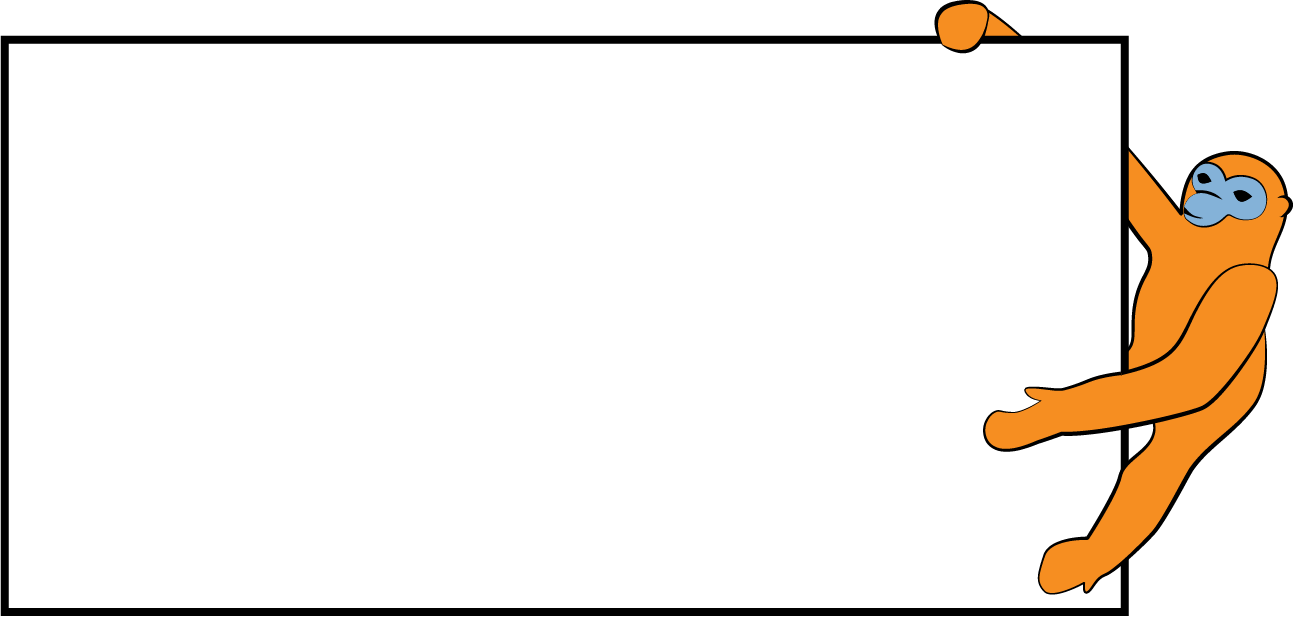
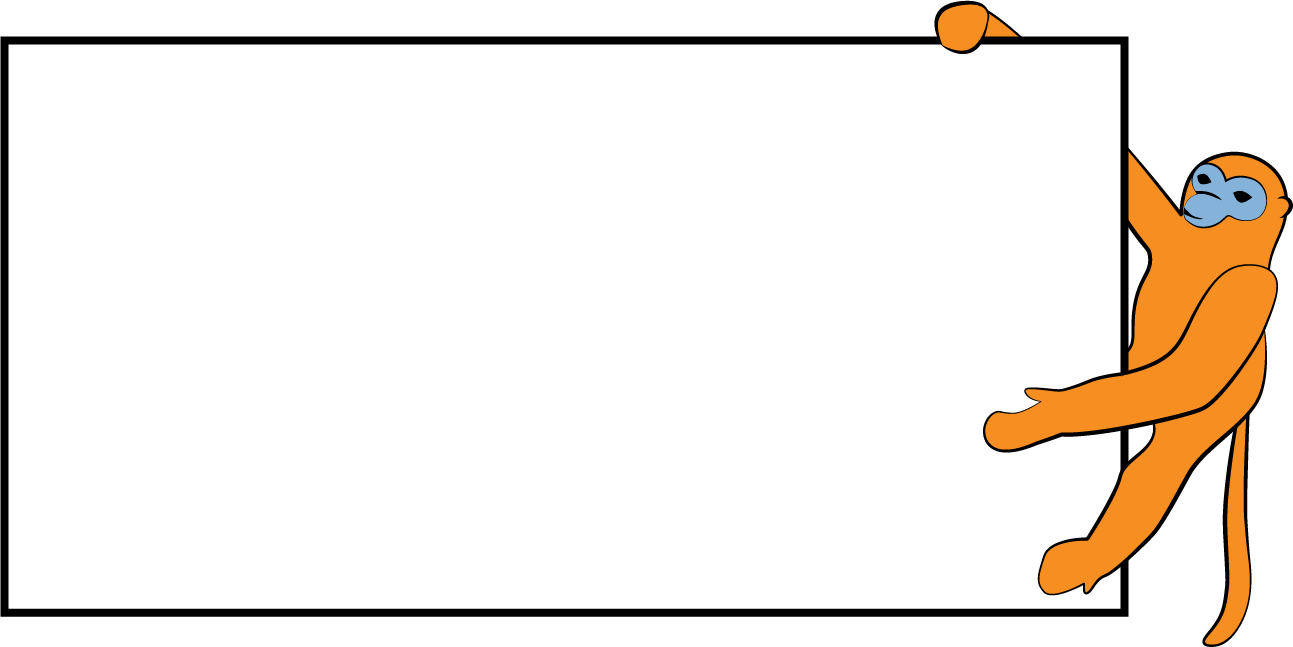
Minor fixes
Small word changes in lessons 3 and 4; replaced images of logo and score monkey

Changed region(s): [[0.0, 0.2156, 1.0, 1.0], [0.0, 0.0308, 0.8662, 0.0924], [0.7425, 0.0, 0.7734, 0.0308]]

diff --git a/pages/Lesson3.php b/pages/Lesson3.php
@@ -21,14 +21,14 @@ include "../head.php";
         <h1>Lesson 3</h1><hr>
         <h2>Pitch Curves</h2>
 		<p>It's important to remember that tone is relative to the speaker's voice. That means that one person's first tone may not be as high as another person's. For example, let's say that Person A's voice is higher than Person B's. Person A might have a 1st tone at 400Hz, but Person B's 1st tone only comes up to 300Hz. Neither is inherently wrong, because the range of their voices are different.</p>
-		<p>The lesson to take from this is not to feel like you "can't go high enough" or "can't go low enough" to say a tone correctly. The highs and lows are relative to your own voice. Even if someone else's tone is higher or lower than yours, that doesn't necessarily make either of you wrong. There are other features that need to be examined.</p>
+		<p>The lesson to take from this is not to feel like you "can't go high enough" or "can't go low enough" to say a tone correctly. The highs and lows are relative to your own voice. Even if someone else's tone is higher or lower than yours, that doesn't necessarily make either of you wrong. The shape of your curve is more important, but even that can have variation. There are other features that need to be examined.</p>
     </section>
     <section id = "lesson-3-ref" class = "hide view-2 lesson">
         <div id = "ref-title"><h1>Lesson 3</h1><hr>
             <h2>Pitch Curves</h2>
 		<p>Listen to the recording for the given word. Look at the native speaker's pitch curve (blue) and prepare to say the word.</p>
-		<p>When you are ready to say the word, press "Record". You will have <strong>2 seconds</strong> to say the word. At the end of those 2 seconds, your pitch curve (red) will be graphed against the native speaker's.</p>
-		<p>Try to get your pitch curve to overlap the native speaker's as closely as possible.</p>
+		<p>When you are ready to say the word, press "Record." You will have <strong>2 seconds</strong> to say the word. At the end of those 2 seconds, your pitch curve (red) will be graphed against the native speaker's.</p>
+		<p>Try to get your pitch curve to match the native speaker's as closely as possible.</p>
         </div>
         <button type = "button" id = "btn-to-lesson">Return to Lesson</button>
         
@@ -36,10 +36,8 @@ include "../head.php";
     <section id = "activity-3-prompt" class = "activity">
         <h1>Activity 3</h1><hr>
         <h2>Tone Mimicking</h2>
-		<p>First, record your baseline by clicking "Record Baseline" and saying "This is my normal speaking voice."</p>
-		<p>Listen to the recording for the given word. Look at the native speaker's pitch curve (blue) and prepare to say the word.</p>
-		<p>When you are ready to say the word, press "Record". You will have <strong>2 seconds</strong> to say the word. At the end of those 2 seconds, your pitch curve (red) will be graphed against the native speaker's.</p>
-		<p>Try to get your pitch curve to overlap the native speaker's as closely as possible.</p>
+		<p>First, you'll listen to a native speaker pronouncing a word and see their pitch curve mapped out in blue.</p>
+		<p>When you are ready, you'll record yourself saying the word and see how your curve, in red, compares to the native speaker's.</p>
         <p>Are you ready to begin this activity?</p>
         <button type = "button" id = "begin-btn">Begin</button>
     
@@ -52,10 +50,10 @@ include "../head.php";
 	<!-- BEGIN Activity Content -->
         <div id ="activity-3-baseline">
             <h3>Record Baseline</h3>
-		<p>The following activity is designed to help you improve your ability to produce tone by mimicking a native speaker. You'll be given an audio recording of a native speaker saying a word, and asked to record yourself saying the word. You'll be shown the pitch curve of the native speaker, and after you finish your recording, your pitch curve will be placed along side it for your to compare.</p>
+		<p>The following activity is designed to help you improve your ability to produce tone by mimicking a native speaker. You'll be given an audio recording of a native speaker saying a word, and asked to record yourself saying the word. You'll be shown the pitch curve of the native speaker, and after you finish your recording, your pitch curve will be placed along side it for you to compare.</p>
 		<p>After we have captured your baseline, you'll be given a word to mimick. You'll hear a native speaker say the word, see their pitch curve, and the character(s) of the word they are pronouncing. When you are ready to mimick it, press record and say the word. You only have <strong>2 seconds</strong> to say the word, so begin quickly after pressing record. All of the words you will be asked to mimick should take less than 2 seconds to say, so don't stress out about time.</p>
-            <p>To grade you accurately, we need a sample of your voice at a normal speaking tone.</p>
-            <p>Please press the "Record Baseline" button and say, "This is my normal speaking voice."</p>
+            <p>Remember, pitch is relative to each person, so to grade you accurately, we need a sample of your voice at a normal speaking tone.</p>
+            <p>Please press the "Record Baseline" button and say aloud, "This is my normal speaking voice."</p>
             <button id="baseline">Record Baseline</button>
         </div>
         <div id ="activity-3-content">

diff --git a/pages/Lesson4.php b/pages/Lesson4.php
@@ -17,7 +17,7 @@ include "../head.php";
     <section id = "lesson-four" class = "lesson">
         <h1>Lesson 4</h1><hr>
         <h2>Initials and Finals</h2>
-	<p>The smallest unit of spoken Mandarin is the word. Each word is made from a specific pattern from a limited number of sounds. The pattern roughly divides words in half, with an <strong>initial</strong> and a <strong>final</strong>. An initial is how the word starts, and a final is how it ends. This way of talking about words has been largely adopted because most words follow an easy pattern, a initial consonant and a final vowel. It is, however, possible to have words without a consonant at the beginning, and some words end in 'n' or 'ng'.</p>
+	<p>The smallest unit of spoken Mandarin is the word. Each word is made with a specific pattern from a limited number of sounds. The pattern roughly divides words in half, with an <strong>initial</strong> and a <strong>final</strong>. An initial is how the word starts, and a final is how it ends. This way of talking about words has been largely adopted because most words follow an easy pattern, a initial consonant and a final vowel. It is, however, possible to have words without a consonant at the beginning, and some words end in 'n' or 'ng'.</p>
 	<p>As you practice it's important to keep in mind that vowels carry tone. You may have noticed that some of your recordings look bizarre and scattered at the begining or ending, this is because consonants do not carry tone well, so the program struggles to find a clear pitch. This is perfectly fine so long as you are aware of it and know it does not necessarily represent an error in your pronunciation.</p>
     </section>
     <section id = "lesson-4-ref" class = "hide view-2 lesson">

diff --git a/head.php b/head.php
@@ -13,7 +13,7 @@
     
 <body>
     
-    <a href = "<?php echo $prefix ?>index.php"><img src ="<?php echo $prefix ?>assets/images/horizontal_logo_orange.png" id = "logo"></a>
+    <a href = "<?php echo $prefix ?>index.php"><img src ="<?php echo $prefix ?>assets/images/YinHorizontalBlack.png" id = "logo" alt ="monkey walking on Yin type"></a>
       <nav>
         <ul>
             <li><a href = "<?php echo $prefix ?>pages/About.php" class ="<?php echo $aboutClass ?>">About</a></li>

diff --git a/pages/LessonsAndActivities.php b/pages/LessonsAndActivities.php
@@ -56,7 +56,7 @@ include "../head.php";
     </div>
     <div id = "four" class = "comb">
         <div class = "invisible">
-            <h1 class = "head">Four</h1>
+            <h1 class = "head"><a href ="Lesson4.php">Four</a></h1>
             <p class = "desc">Lesson: Tone initials and finals<br>Activity: Tone production</p>
         </div>
 <!--
